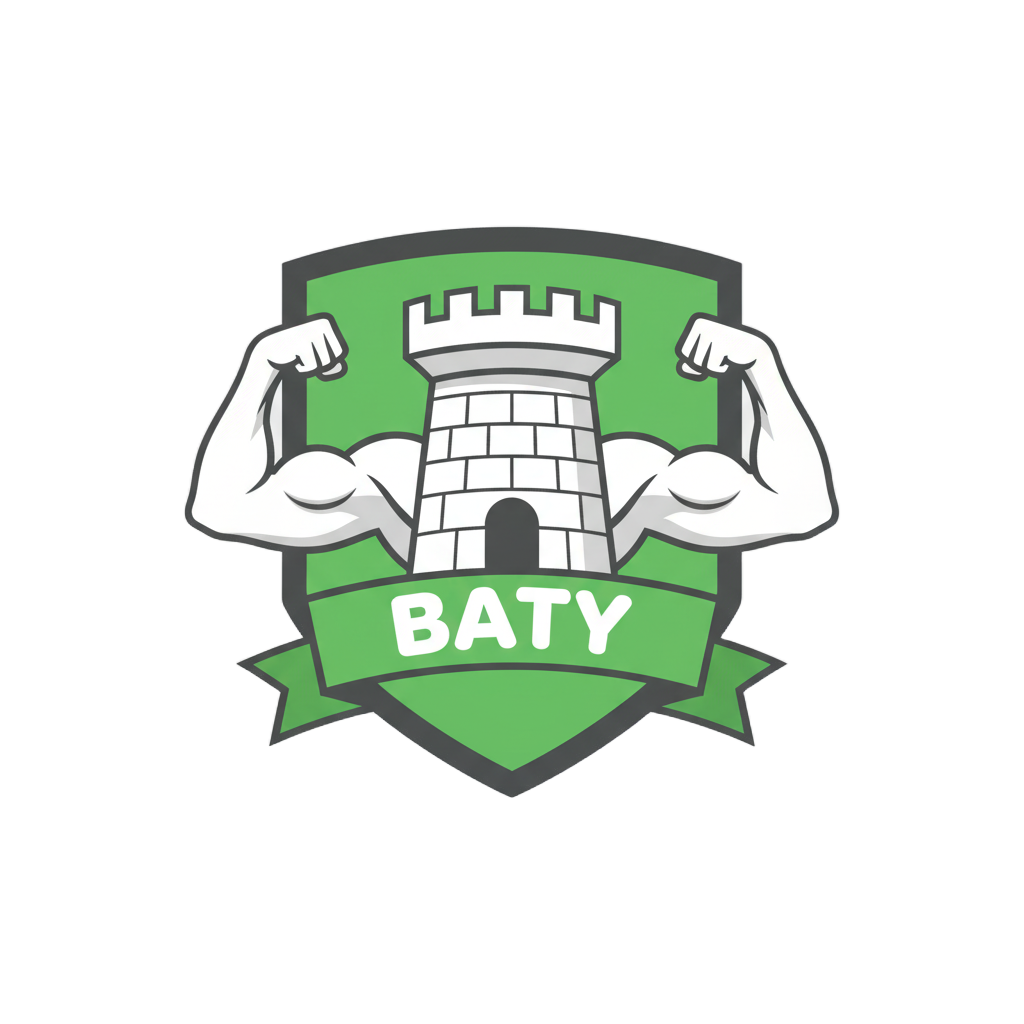
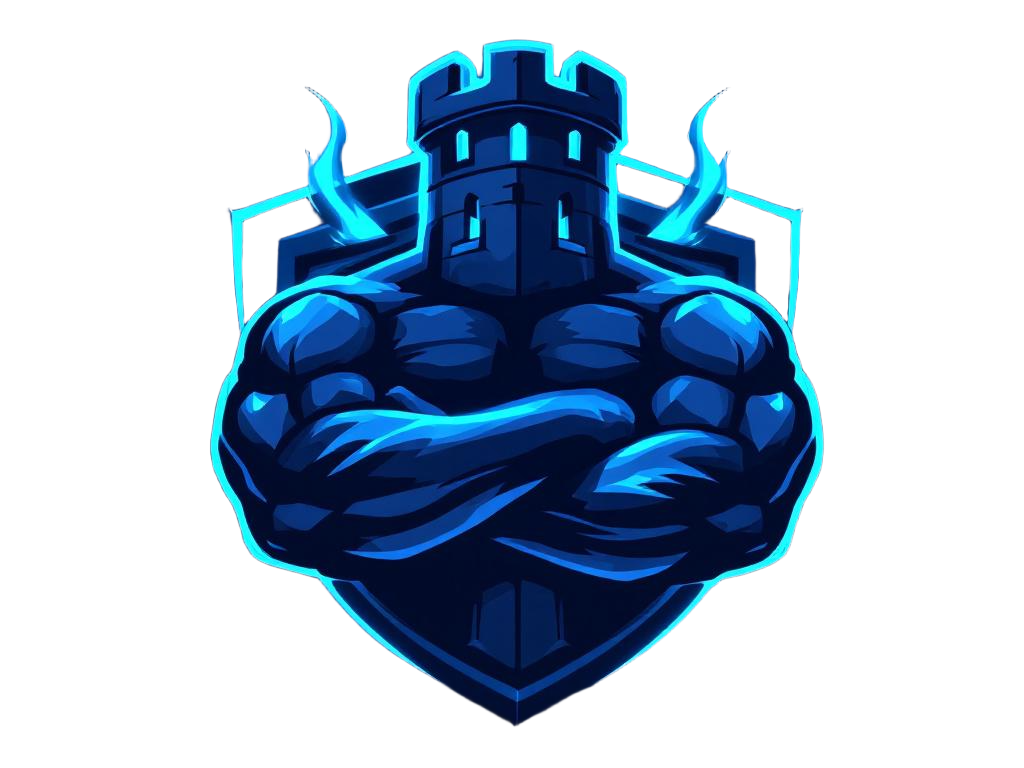
Enhance splash screen and update assets
Add randomized full-screen splash backgrounds with a gradient overlay and revamped loading UI (messages, progress behavior). Insert StatusBar in root layout.
Replace example/react images with new splash assets and update app icon. Tweak AppButton sizing and minor style adjustments.

diff --git a/components/SplashScreen.tsx b/components/SplashScreen.tsx
@@ -1,5 +1,7 @@
-import { useEffect, useState } from "react";
-import { H1, Paragraph, Progress, Text, XStack, YStack } from "tamagui";
+import { LinearGradient } from "expo-linear-gradient"; // Standard Expo
+import { useEffect, useMemo, useState } from "react";
+import { Dimensions } from "react-native";
+import { getTokenValue, H1, Image, Paragraph, Progress, Text, XStack, YStack } from "tamagui";
 
 interface SplashScreenProps {
   onFinish: () => void;
@@ -7,82 +9,140 @@ interface SplashScreenProps {
 }
 
 const LOADING_MESSAGES = [
-  "Sharpening axes...",
-  "Summoning the Coach...",
-  "Scaring goblins...",
-  "Polishing armor...",
-  "Brewing potions...",
-  "Consulting the elders...",
-  "Stretching hamstrings...",
-  "Loading heavy weights...",
+  "Forging your destiny...",
+  "Calibrating gravity...",
+  "Scouting the terrain...",
+  "Awakening the inner fire...",
 ];
+
+const { width, height } = Dimensions.get("window");
 
 export function SplashScreen({ onFinish, isReady }: SplashScreenProps) {
   const [progress, setProgress] = useState(0);
   const [message, setMessage] = useState(LOADING_MESSAGES[0]);
 
+  const bgImage = useMemo(() => {
+    const images = [
+      require("@/assets/splash-bg1.jpg"),
+      require("@/assets/splash-bg2.jpg"),
+      require("@/assets/splash-bg3.jpg"),
+    ];
+    return images[Math.floor(Math.random() * images.length)];
+  }, []);
+
+  // Simulation de chargement
   useEffect(() => {
     const interval = setInterval(() => {
       setProgress((prev) => {
-        // If we are not ready, stall at 90%
-        if (prev >= 90 && !isReady) {
-          return 90;
-        }
-
+        if (prev >= 90 && !isReady) return 90;
         if (prev >= 100) {
           clearInterval(interval);
           return 100;
         }
-
-        // Randomly change message
-        if (Math.random() > 0.7) {
+        // Change message occasionally
+        if (Math.random() > 0.85) {
           setMessage(LOADING_MESSAGES[Math.floor(Math.random() * LOADING_MESSAGES.length)]);
         }
-        return prev + Math.floor(Math.random() * 5) + 1; // Random increment
+        return prev + Math.floor(Math.random() * 3) + 2; // Un peu plus rapide
       });
-    }, 50);
-
+    }, 30);
     return () => clearInterval(interval);
   }, [isReady]);
 
   useEffect(() => {
-    if (progress >= 100) {
-      onFinish();
-    }
+    if (progress >= 100) onFinish();
   }, [progress, onFinish]);
 
+  const bgDark = getTokenValue("$bgDark") || "#0B0F19";
+
   return (
-    <YStack flex={1} bg="$background" justify="center" items="center" p="$6" gap="$6">
-      <H1 color="$color" fontWeight="900" fontSize={48}>
-        🏰 Bati
-      </H1>
+    <YStack flex={1} bg="$bgDark">
+      {/* 1. BACKGROUND IMAGE (FULL SCREEN) */}
+      <Image
+        source={bgImage}
+        width={width}
+        height={height}
+        position="absolute"
+        resizeMode="cover"
+        opacity={0.8}
+      />
 
-      <YStack width="80%" gap="$4">
-        <Paragraph
-          color="$color"
-          opacity={0.8}
-          fontSize={16}
-          fontWeight="bold"
-          style={{ textAlign: "center" }}
-        >
-          {message}
-        </Paragraph>
+      {/* 2. GRADIENT OVERLAY (Pour la lisibilité en bas) */}
+      <LinearGradient
+        colors={["transparent", "rgba(11, 15, 25, 0.4)", bgDark]}
+        style={{ position: "absolute", width, height }}
+        locations={[0, 0.5, 0.9]}
+      />
 
-        <YStack>
-          <Progress
-            value={progress}
-            size="$4"
-            background="$bgLight"
-            borderWidth={2}
-            borderColor="$color"
+      {/* 3. CONTENU UI */}
+      <YStack flex={1} justify="space-between" p="$6" pt="$12" pb="$10">
+        {/* TOP: LOGO & TITRE */}
+        <XStack justify="center">
+          <YStack gap="$4">
+            <Image
+              source={require("@/assets/app-icon.png")}
+              width={80}
+              height={80}
+              borderRadius="$4"
+              shadowColor="$primaryGlow"
+              shadowRadius={20}
+            />
+            <H1
+              fontFamily="$heading"
+              color="$text"
+              fontSize={52}
+              lineHeight={52}
+              letterSpacing={8}
+              fontWeight="900"
+              textShadowColor="rgba(0,0,0,0.8)"
+              textShadowRadius={10}
+            >
+              BATI
+            </H1>
+          </YStack>
+        </XStack>
+
+        {/* BOTTOM: LOADING HUD */}
+        <YStack gap="$4">
+          {/* Message RPG flottant */}
+          <Paragraph
+            fontFamily="$heading"
+            color="$text"
+            fontSize={16}
+            opacity={0.9}
+            textShadowColor="$bgDark"
+            textShadowRadius={4}
           >
-            <Progress.Indicator background="$primary" animation="quick" />
-          </Progress>
-          <XStack justify="flex-end" mt="$1">
-            <Text color="$color" opacity={0.6} fontSize={12} fontWeight="bold">
-              {progress}%
-            </Text>
-          </XStack>
+            {message}
+          </Paragraph>
+
+          {/* Barre de Progression "High Tech" */}
+          <YStack>
+            <Progress
+              value={progress}
+              height={4}
+              bg="rgba(255,255,255,0.1)"
+              overflow="hidden"
+              borderCurve="continuous"
+            >
+              <Progress.Indicator
+                bg="$primary"
+                animation="bouncy"
+                shadowColor="$primary"
+                shadowRadius={10} // Effet laser
+                shadowOpacity={1}
+              />
+            </Progress>
+
+            <XStack justify="space-between" mt="$2">
+              <Text fontFamily="$body" fontSize={10} color="$textSecondary">
+                v3.0.0
+              </Text>
+              <Text fontFamily="$heading" fontSize={12} color="$primary">
+                {progress}%
+              </Text>
+            </XStack>
+          </YStack>
         </YStack>
       </YStack>
     </YStack>

diff --git a/app/_layout.tsx b/app/_layout.tsx
@@ -2,6 +2,7 @@ import { DefaultTheme, ThemeProvider } from "@react-navigation/native";
 import { Slot, useRouter, useSegments } from "expo-router";
 import Head from "expo-router/head";
 import * as SplashScreen from "expo-splash-screen";
+import { StatusBar } from "expo-status-bar";
 import { useCallback, useEffect, useState } from "react";
 import { LogBox } from "react-native";
 import { GestureHandlerRootView } from "react-native-gesture-handler";
@@ -93,6 +94,7 @@ export default function RootLayout() {
         />
       </Head>
       <GestureHandlerRootView style={{ flex: 1 }}>
+        <StatusBar style="light" />
         <SafeAreaProvider>
           <TamaguiProvider config={config} defaultTheme={colorScheme}>
             <Theme name={colorScheme}>

diff --git a/components/common/AppButton.tsx b/components/common/AppButton.tsx
@@ -42,7 +42,7 @@ export function AppButton({
       mt={marginTop}
       bg={getBackgroundColor()}
       color={getColor()}
-      size="$6"
+      size="$4"
       width={fullWidth ? "100%" : undefined}
       borderWidth={3}
       rounded="$8"
